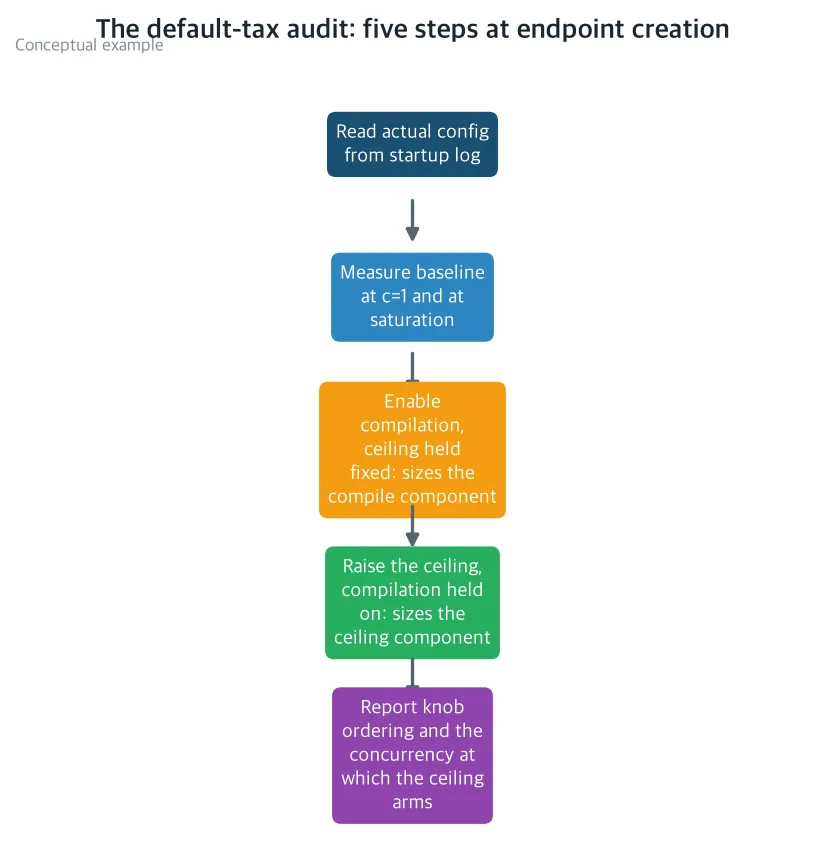
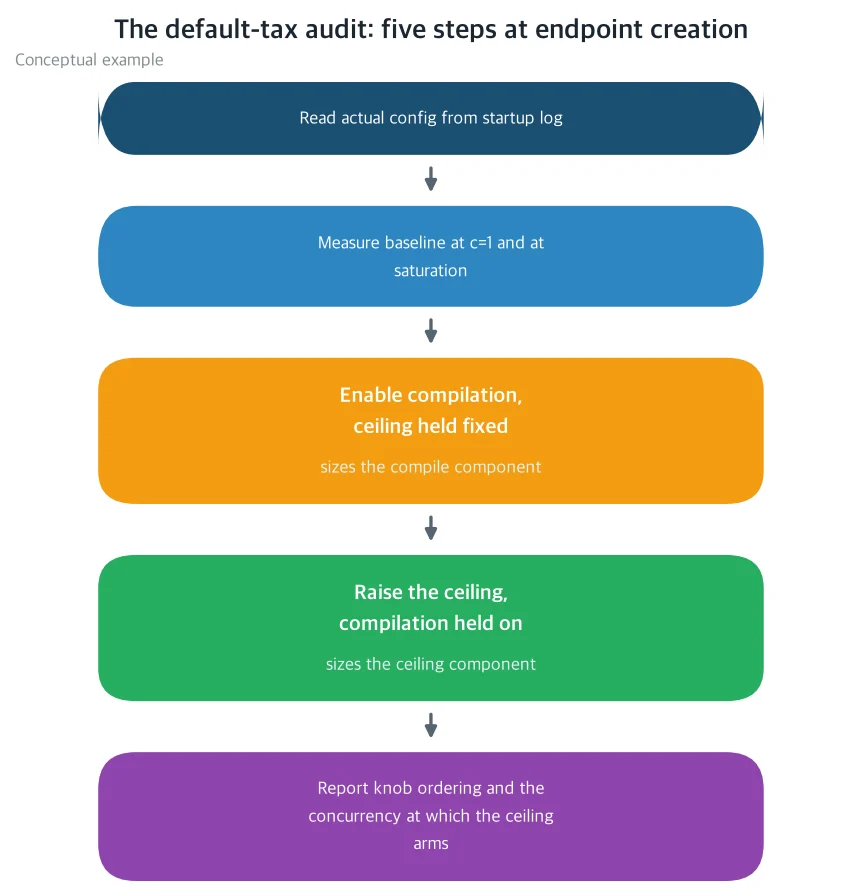
fix: re-render 9 unreadable flow diagrams
The flow-figure renderer sized each stage box from matplotlib's text bbox
but placed it in a fixed 1/n slot, so long stage labels wrapped past their
slot and printed through neighbouring boxes and the title. Every run exited
0, so nine unreadable figures reached live posts over three weeks.

Image paths are unchanged - no URL moves. Also fixes a caption on the
2026-09-05 post that was missing its opening italic marker.

Claude-Session: https://claude.ai/code/session_01S3WZBu5pF9wTvTsb2NdhWL

diff --git a/_posts/ko/research/2026-09-05-self-tuning-scaffolding-harness-evolution.md b/_posts/ko/research/2026-09-05-self-tuning-scaffolding-harness-evolution.md
@@ -99,7 +99,7 @@ canonical_url: "https://thakicloud.com/tech-blog/ko/research/self-tuning-scaffol
 설계가 맞는지는 미리 등록된 실험이 가릅니다. 진화 대상 셋(노트, 조종간, 변경 없음)과 검사 게이트 둘(없음, 고정 홀아웃 게이트)을 교차해 6갈래를 만듭니다. 논문은 이 설계에 교차 실험(factorial)이라는 이름을 붙입니다. 각 갈래는 7밤씩, 첫 밤 전에 뽑은 몰래 시험과 고정된 채점자, 고정된 정책을 그대로 씁니다. 반증 영역도 네 개를 설계 단계에서 적어 둡니다.
 
 ![논문에 미리 등록된 3x2 진화 대상-게이트 교차 실험](/assets/images/posts/research/self-tuning-scaffolding-harness-evolution/fig3_substrate_by_gate_factorial.webp)
-미리 등록된 교차 실험의 설계입니다. 진화 대상(노트, 조종간, 변경 없음)과 검사 게이트(없음, 승인 게이트)를 교차해 6갈래를 만들고 각 갈래를 7밤씩 돌립니다. 몰래 시험은 첫 밤 전에 한 번만 뽑아 봉인하고 채점자와 정책은 고정합니다. 각 갈래의 점수 차, 조용한 뒤집힘, 판정, 비용이 밤마다 장부에 쌓입니다. 반증 영역 네 개도 설계 단계에서 적어 둡니다. 논문의 설계 도식이며 실측 데이터가 아닙니다.*
+*미리 등록된 교차 실험의 설계입니다. 진화 대상(노트, 조종간, 변경 없음)과 검사 게이트(없음, 승인 게이트)를 교차해 6갈래를 만들고 각 갈래를 7밤씩 돌립니다. 몰래 시험은 첫 밤 전에 한 번만 뽑아 봉인하고 채점자와 정책은 고정합니다. 각 갈래의 점수 차, 조용한 뒤집힘, 판정, 비용이 밤마다 장부에 쌓입니다. 반증 영역 네 개도 설계 단계에서 적어 둡니다. 논문의 설계 도식이며 실측 데이터가 아닙니다.*
 
 즉, 사람 말로는 조종간이 더 빨리 멀어진다라는 주장이 틀릴 수 있는 길까지 함께 적어 둔 것입니다. 게이트 없는 조종간 갈래가 7밤 내내 노트 갈래 이하의 점수 차를 보이고 조용한 뒤집힘이 제로이면 그 주장은 이 실험에서 반증됩니다.
 
